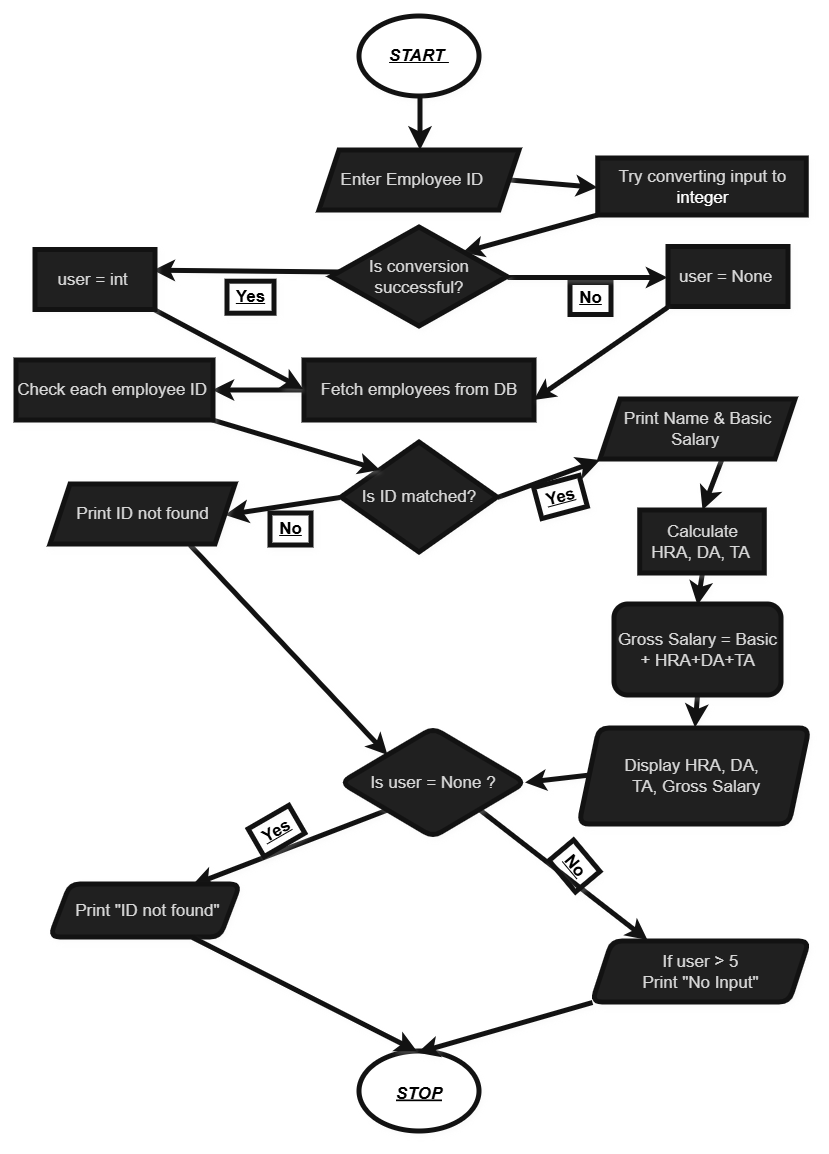
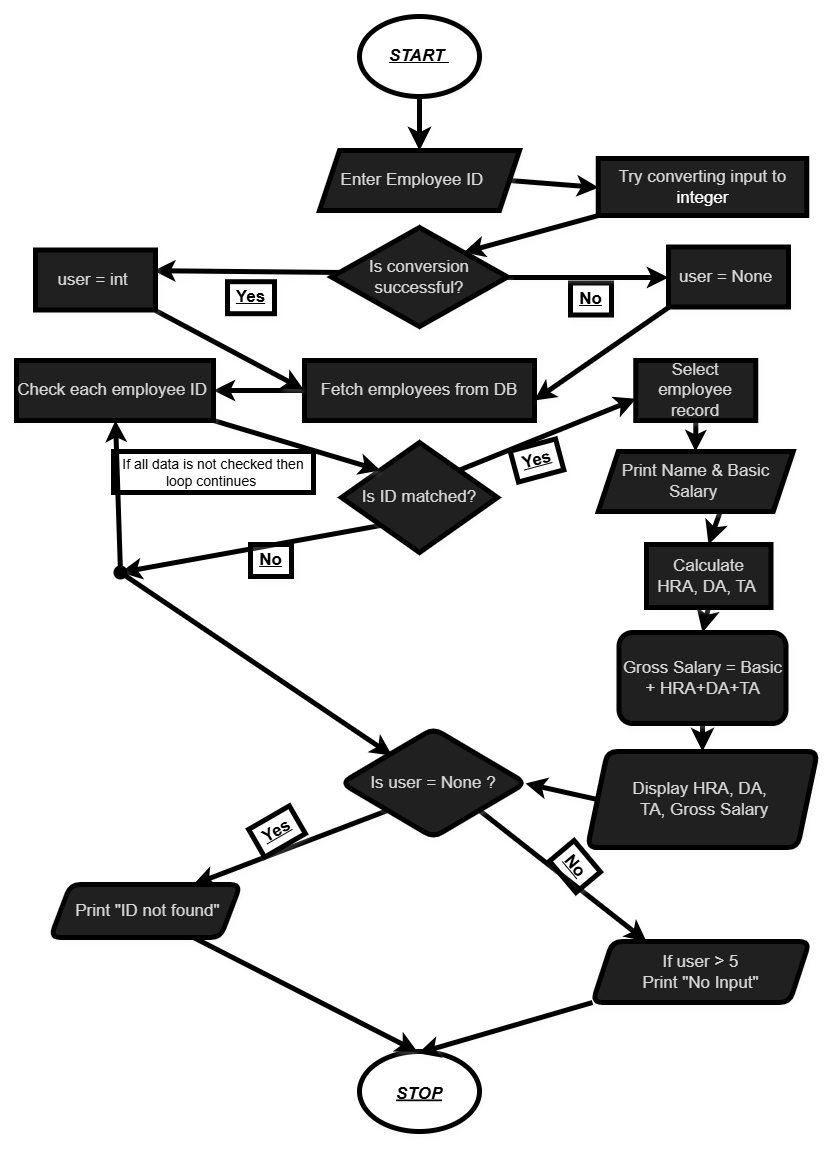
change in pseudocode and algrorithm

diff --git a/Algorithm.md b/Algorithm.md
@@ -1,22 +1,16 @@
-Start
-
-Display employee database
-
-Input employee ID
-
-Fetch all employee records from database
-
-Check whether entered employee ID exists
-
-If ID exists, then:
-a. Display employee name and basic salary
-b. Calculate HRA
-c. Calculate DA
-d. Calculate TA
-e. Calculate Gross Salary = Basic + HRA + DA + TA
-f. Display HRA, DA, TA and Gross Salary
-
-Else
-Display “ID not found”
-
-Stop
+Step-1 :- Start the program.
+Step-2 :- Input the employee ID from the user.
+Step-3 :- Try to convert the entered ID into an integer.If conversion fails, set the ID value as NONE.
+Step-4 :- Fetch all employee records from the database.
+Step-5 :- Repeat the following steps for each employee record:
+    a) Compare entered ID with employee ID.
+    b) If matched, display employee name and basic salary.
+    c) Calculate HRA = 15% of basic salary.
+    d) Calculate DA = 10% of basic salary.
+    e) Calculate TA = 20.2% of basic salary.
+    f) Calculate Gross Salary = Basic + HRA + DA + TA.
+    g) Display HRA, DA, TA and Gross Salary.
+    h) Exit the loop.
+Step-6 :- If employee ID is NONE, display “ID not found”.
+Step-7 :- Else if employee ID is greater than 5, display “No Input”.
+Step-8 :- Stop the program.

diff --git a/Pseudocode.md b/Pseudocode.md
@@ -1,25 +1,41 @@
-START
+DEFINE function database()
+    STORE employees as list of tuples
+    RETURN employees
+END FUNCTION
 
-DISPLAY "Employee Database"
+DEFINE function salary(x)
+    hra ← 0.15 × x
+    da  ← 0.10 × x
+    ta  ← 0.202 × x
+    gross ← x + hra + da + ta
 
-INPUT emp_id
+    PRINT hra, da, ta
+    PRINT gross
+END FUNCTION
 
-FETCH all employees from database
 
-IF emp_id is found THEN
-    DISPLAY employee_name
-    DISPLAY basic_salary
+INPUT employee_id
 
-    HRA ← 0.15 × basic_salary
-    DA  ← 0.10 × basic_salary
-    TA  ← 0.20 × basic_salary
+TRY
+    employee_id ← INTEGER(employee_id)
+CATCH error
+    employee_id ← NONE
+END TRY
 
-    gross_salary ← basic_salary + HRA + DA + TA
 
-    DISPLAY HRA, DA, TA
-    DISPLAY gross_salary
-ELSE
-    DISPLAY "ID not found"
+FOR each emp IN database()
+
+    IF emp.id = employee_id THEN
+        PRINT emp.name, emp.basic_salary
+        CALL salary(emp.basic_salary)
+        STOP LOOP
+    END IF
+
+END FOR
+
+
+IF employee_id = NONE THEN
+    PRINT "ID not found"
+ELSE IF employee_id > 5 THEN
+    PRINT "No Input"
 END IF
-
-STOP
